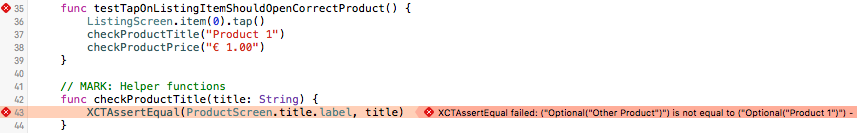
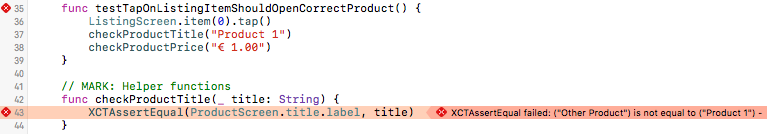
Review fixes

diff --git a/_posts/2016-09-22-self-contained-UI-tests-for-ios-applications.md b/_posts/2016-09-22-self-contained-UI-tests-for-ios-applications.md
@@ -7,12 +7,13 @@ tags: [tech, ios, testing, UI testing, test automation, WireMock, Xcode]
 We're all familiar with
 [TDD](https://en.wikipedia.org/wiki/Test-driven_development),
 everyone is writing unit tests these days — but unit tests won't check application state after complex UI interactions.
-If you want make sure that application behaves correctly when users interact with it, then you need to write UI tests.
+If you want yo make sure that application behaves correctly when users interact with it,
+then you need to write UI tests.
 
 Automated UI tests of your mobile application can help you detect problems with your code during everyday
 [Continuous Integration (CI)](https://en.wikipedia.org/wiki/Continuous_integration)
-process. It may however be hard achieve a stable test environment if your application presents data obtained from remote
-servers.
+process. It may however be hard to achieve a stable test environment if your application presents data obtained from
+remote servers.
 
 This article explains how to set up a self-contained test environment for connected iOS application, that can be used
 both in Continuous Integration and manual testing.
@@ -27,7 +28,7 @@ We’ll be using
 We’ll use [Xcode UI Testing](https://developer.apple.com/videos/play/wwdc2015/406/) for UI tests.
 It’s the official UI testing framework from Apple that reduces the need for explicit waits in test code.
 Less explicit waits means faster and more readable test code, that's very important for test suite maintenance.
-Also as it's the official Apple framework we’ll hopefully avoid situations when test framework breaks with new Xcode
+Also, as it's the official Apple framework, we’ll hopefully avoid situations when test framework breaks with new Xcode
 releases.
 
 Unfortunately there isn’t much official documentation for the framework, but [Joe Masilotti](http://masilotti.com/) did
@@ -83,13 +84,12 @@ The last thing that we need, is to check the key at application start and disabl
 in `AppDelegate`:
 
 ```swift
+@UIApplicationMain
 class AppDelegate: UIResponder, UIApplicationDelegate {
-    func application(application: UIApplication, didFinishLaunchingWithOptions launchOptions: [NSObject: AnyObject]?) -> Bool {
-
-        if NSProcessInfo.processInfo().environment["DISABLE_ANIMATIONS"] == "1" {
+    func application(_ application: UIApplication, didFinishLaunchingWithOptions launchOptions: [UIApplicationLaunchOptionsKey: Any]?) -> Bool {
+        if ProcessInfo.processInfo.environment["DISABLE_ANIMATIONS"] == "1" {
             UIView.setAnimationsEnabled(false)
         }
-
         return true
     }
 }
@@ -100,7 +100,7 @@ class AppDelegate: UIResponder, UIApplicationDelegate {
 It's time to start writing our test code!
 
 Let's assume we're testing an e-commerce application like
-[Allegro](https://en.wikipedia.org/wiki/Allegro_(auction_website)). It displays a listing of tappable products and we
+[Allegro](https://itunes.apple.com/us/app/allegro/id305659772). It displays a listing of tappable products and we
 want to check if correct product is open after a tap.
 
 We could write something like this:
@@ -110,13 +110,13 @@ func testTapOnListingItemShouldOpenCorrectProduct() {
     // tap on first item
     XCUIApplication().collectionViews.cells["listingItem0"].tap()
     // check item title
-    XCTAssertTrue(XCUIApplication().staticTexts["productTitle"], "Product 1")
+    XCTAssertEqual(XCUIApplication().staticTexts["productTitle"], "Product 1")
     // check item price
-    XCTAssertTrue(XCUIApplication().staticTexts["productPrice"], "€ 1.00")
+    XCTAssertEqual(XCUIApplication().staticTexts["productPrice"], "€ 1.00")
 }
 ```
 
-But even with comments it's not really readable isn't it? Moreover we can't reuse this code in other test methods
+But even with comments it's not really readable, isn't it? Moreover we can't reuse this code in other test methods
 and copying those `XCUIApplication()` calls over and over again is not feasible at all.
 
 This is the place where [Page Objects](http://martinfowler.com/bliki/PageObject.html) (a concept known well to anyone
@@ -133,7 +133,7 @@ Let's start with a simple listing object:
 
 ```swift
 class ListingScreen {
-    static func item(itemNumber: UInt) -> XCUIElement {
+    static func item(_ itemNumber: UInt) -> XCUIElement {
         return XCUIApplication().collectionViews.cells["listingItem" + String(itemNumber)]
     }
 }
@@ -157,9 +157,9 @@ func testTapOnListingItemShouldOpenCorrectProduct() {
     // tap on first item
     ListingScreen.item(0).tap()
     // check item title
-    XCTAssertTrue(ProductScreen.title.label, "Product 1")
+    XCTAssertEqual(ProductScreen.title.label, "Product 1")
     // check item price
-    XCTAssertTrue(ProductScreen.price.label, "€ 1.00")
+    XCTAssertEqual(ProductScreen.price.label, "€ 1.00")
 }
 ```
 
@@ -172,11 +172,11 @@ Let's try to move them to separate helper methods then:
 
 ```swift
 // MARK: Helper functions
-func checkProductTitle(title: String) {
+func checkProductTitle(_ title: String) {
     XCTAssertEqual(ProductScreen.title.label, title)
 }
 
-func checkProductPrice(price: String) {
+func checkProductPrice(_ price: String) {
     XCTAssertEqual(ProductScreen.price.label, price)
 }
 ```
@@ -206,11 +206,11 @@ source file the assert comes. We'll use those parameters to place the error mark
 Let's improve our helpers:
 
 ```swift
-func checkProductTitle(title: String, file: StaticString = #file, line: UInt = #line) {
+func checkProductTitle(_ title: String, file: StaticString = #file, line: UInt = #line) {
     XCTAssertEqual(ProductScreen.title.label, title, file: file, line: line)
 }
 
-func checkProductPrice(price: String, file: StaticString = #file, line: UInt = #line) {
+func checkProductPrice(_ price: String, file: StaticString = #file, line: UInt = #line) {
     XCTAssertEqual(ProductScreen.price.label, price, file: file, line: line)
 }
 ```
@@ -222,7 +222,7 @@ test method!
 
 ## Network data stubbing
 
-So far we were using hardcoded test data in the test method, but the truth is that our application is presenting data
+So far we were using hardcoded test data in the test method, but the truth is that our application presents data
 received from backend servers. Thus it's possible that this data will often change. If suddenly a different product
 is the first one on the product listing then the test will fail as the name or price won't match. Moreover a server
 outage will cause our tests to fail as well because we won't receive any data at all.
@@ -231,7 +231,7 @@ How can we ensure that our tests will be server data independent and that they w
 downtime? Network data stubbing can help us with that.
 
 There's a great, well documented, opensource project called [WireMock](http://wiremock.org/index.html) that we can use
-to serve network stubs. It can not only serve but also record stubs, which is really handy if you want to mock network
+to serve network stubs. It not only serves but also records stubs, which is really handy if you want to mock network
 communication quickly.
 
 ### WireMock script
@@ -309,7 +309,7 @@ fi
 Now we'll be able to start WireMock by simply running `./wiremock.sh` and stop it by running `./wiremock.sh -k`.
 We can even run WireMock in record mode to record new mappings with `./wiremock.sh -r`.
 
-The script will expect to find *mappings* and *__files* directories with mock files in the script directory — this can
+The script expects to find *mappings* and *__files* directories with mock files in the script directory — this can
 be changed by providing `-m path_to_mappings` option.
 
 ### Build configuration
@@ -352,7 +352,7 @@ It's time to make sure localhost is used instead of real API URL in Localhost co
 We have to add conditional code in the place where API URL is defined:
 
 ```swift
-private var baseURL: String {
+var baseURL: String {
 #if LOCALHOST
     return "http://localhost:8080"
 #else
@@ -383,6 +383,10 @@ then
 fi
 ```
 
+Build phases should be ordered like this:
+
+![Build phases](/img/articles/2016-09-22-self-contained-ui-tests-for-ios-applications/build_phases.png)
+
 ## Using data from mocks in tests
 
 So far our test methods included hardcoded data like "Product 1" for item name. This isn't really flexible as we
@@ -401,7 +405,7 @@ Afterwards we'll have a reference to the *__files* directory in our project stru
 
 This way we can easily access mock files in Xcode and they will be automatically bundled with test bundle.
 
-We can write our parser code now.
+We are ready to write our parser code now.
 
 Let's start with a simple base class for test data parsers that will load a specified mock file and deserialize it
 into a dictionary at initialisation time.
@@ -419,11 +423,11 @@ class TestDataParser {
     var json: JSONDict!
 
     init(testFile: TestFile) {
-        guard let path = NSBundle(forClass: self.dynamicType).pathForResource(testFile.rawValue, ofType: "json", inDirectory: "__files"),
-            jsonData = NSData(contentsOfFile: path) else { return }
+        guard let path = Bundle(for: type(of: self)).path(forResource: testFile.rawValue, ofType: "json", inDirectory: "__files"),
+            let jsonData = try? Data(contentsOf: URL(fileURLWithPath: path)) else { return }
 
         do {
-            json = try NSJSONSerialization.JSONObjectWithData(jsonData, options: NSJSONReadingOptions.MutableContainers) as? JSONDict
+            json = try JSONSerialization.jsonObject(with: jsonData, options: JSONSerialization.ReadingOptions.mutableContainers) as? JSONDict
         } catch let jsonError {
             print(jsonError)
         }
@@ -448,10 +452,6 @@ Data parser for product file can be implemented like this:
 
 ```swift
 class ProductTestData: TestDataParser {
-
-    init(testFile: TestFile) {
-        super.init(testFile: testFile)
-    }
 
     var title: String {
         return product["title"] as! String
@@ -494,11 +494,11 @@ class applicationUITests: XCTestCase {
     }
 
     // MARK: Helper functions
-    func checkProductTitle(title: String, file: StaticString = #file, line: UInt = #line) {
+    func checkProductTitle(_ title: String, file: StaticString = #file, line: UInt = #line) {
         XCTAssertEqual(ProductScreen.title.label, title)
     }
 
-    func checkProductPrice(price: String, file: StaticString = #file, line: UInt = #line) {
+    func checkProductPrice(_ price: String, file: StaticString = #file, line: UInt = #line) {
         XCTAssertEqual(ProductScreen.price.label, price, file: file, line: line)
     }
 }
@@ -511,7 +511,7 @@ tests in similar manner.
 
 ## Summary
 
-At first glance  it might seem that it's not easy to set up UI test environment for iOS applications, but as you've seen
+At first glance it might seem that it's not easy to set up UI test environment for iOS applications, but as you've seen
 above it just takes a few simple steps.
 
 It's most definitely worth the effort as it can save you lots of manual testing and it will show you issues with your
